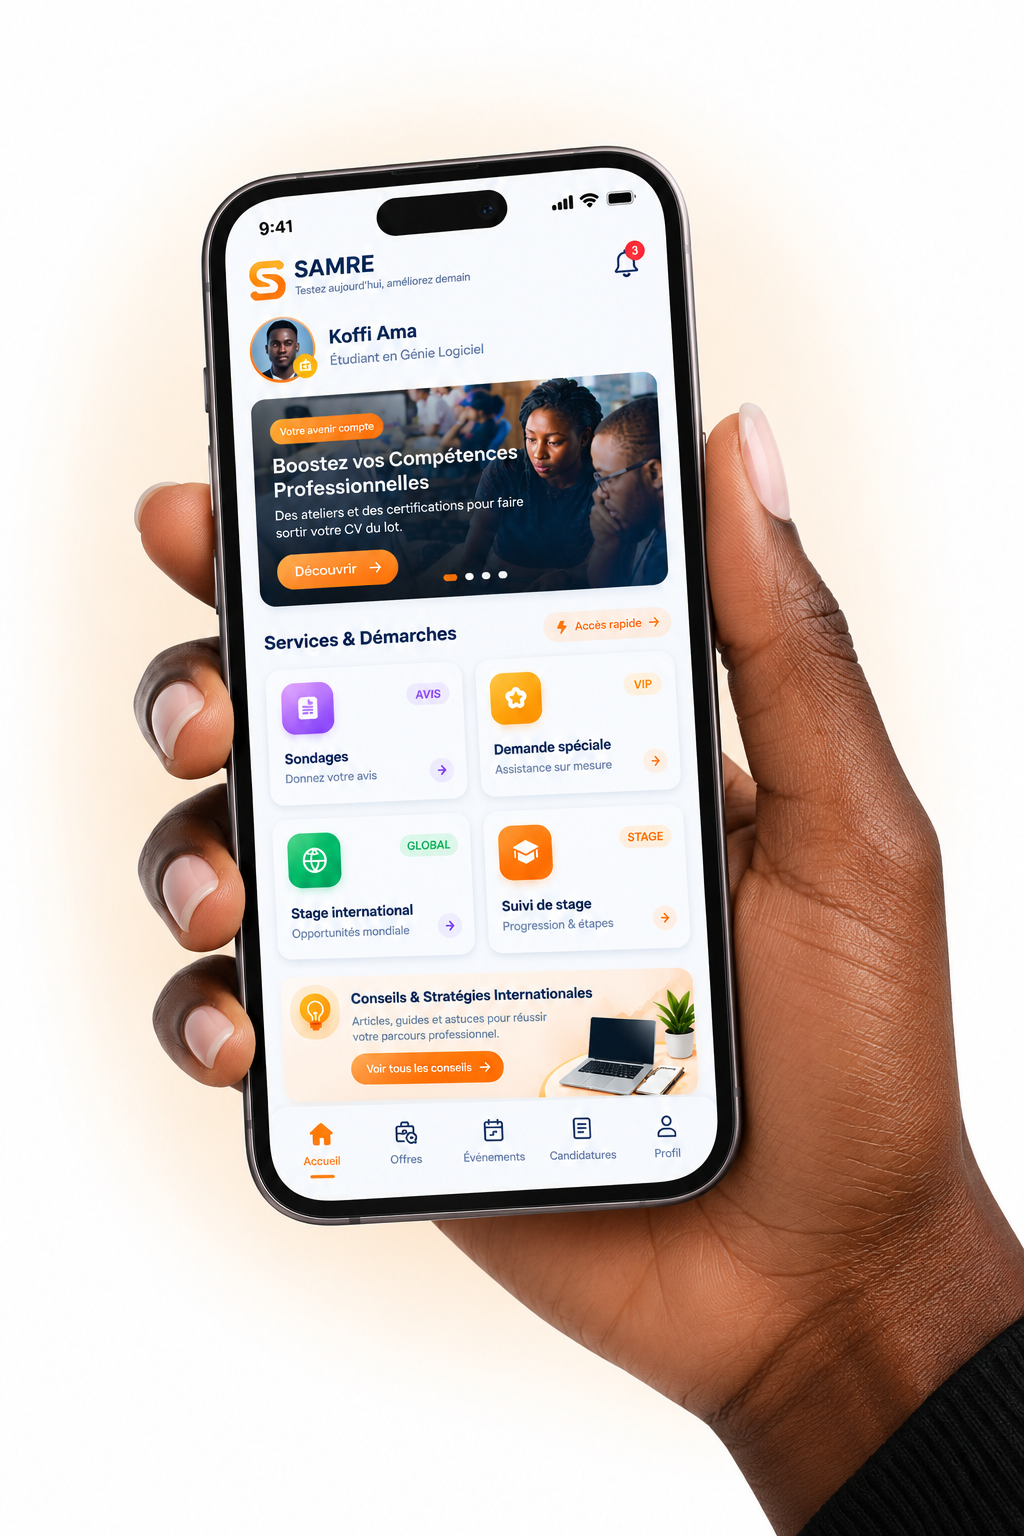
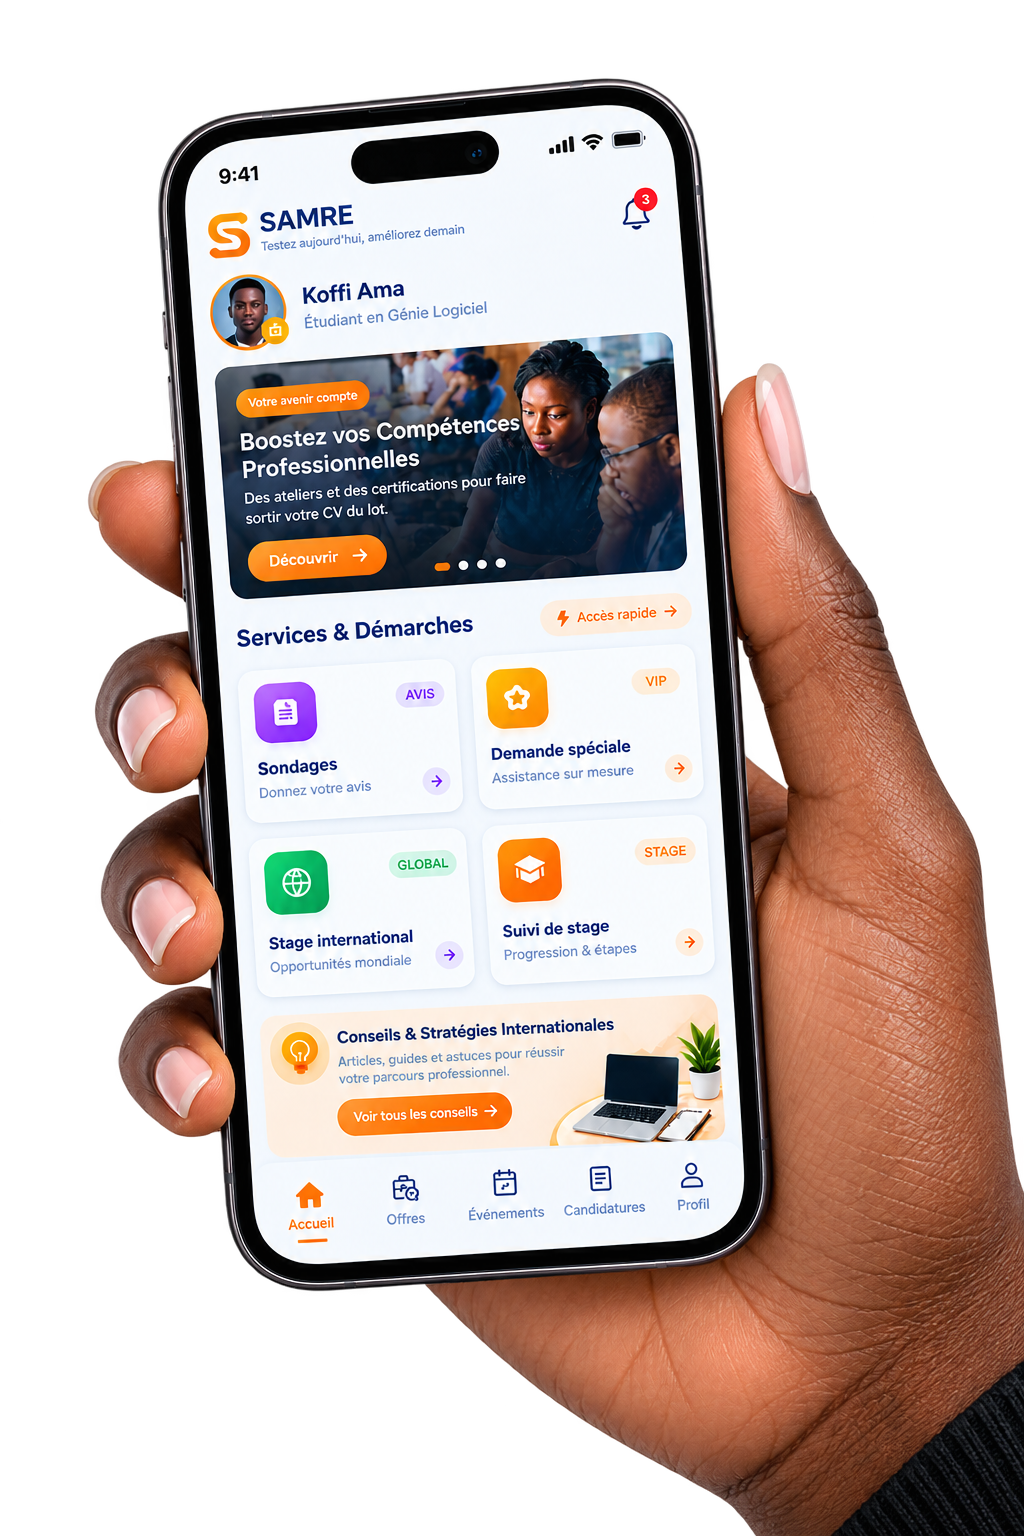
fix: resolve typescript build errors for cicd

diff --git a/remove_bg.py b/remove_bg.py
@@ -1,0 +1,66 @@
+import os
+import sys
+
+input_path = os.path.join(os.path.dirname(__file__), "public", "ChatGPT Image 28 sept. 2026, 00_26_33.png")
+output_path = os.path.join(os.path.dirname(__file__), "public", "ChatGPT Image 28 sept. 2026, 00_26_33_nobg.png")
+
+print(f"Processing: {input_path}")
+
+try:
+    from rembg import remove
+    from PIL import Image
+
+    input_img = Image.open(input_path)
+    output_img = remove(input_img)
+    output_img.save(output_path, "PNG")
+    print(f"Successfully removed background using rembg! Saved to: {output_path}")
+    sys.exit(0)
+except Exception as e:
+    print(f"rembg not available or failed ({e}), falling back to OpenCV GrabCut...")
+
+try:
+    import cv2
+    import numpy as np
+    from PIL import Image
+
+    src = cv2.imread(input_path, cv2.IMREAD_UNCHANGED)
+    h, w = src.shape[:2]
+
+    # Create mask for Grabcut
+    mask = np.zeros((h, w), np.uint8)
+    bgdModel = np.zeros((1, 65), np.float64)
+    fgdModel = np.zeros((1, 65), np.float64)
+
+    # Rectangle encompassing the hand and phone
+    rect = (int(w * 0.05), int(h * 0.05), int(w * 0.90), int(h * 0.90))
+    cv2.grabCut(src[:, :, :3], mask, rect, bgdModel, fgdModel, 7, cv2.GC_INIT_WITH_RECT)
+
+    # Foreground is where mask is 1 or 3
+    fg_mask = np.where((mask == 2) | (mask == 0), 0, 1).astype('uint8')
+
+    # Detect light background color from the 4 corners
+    corners = np.concatenate([
+        src[0:50, 0:50, :3].reshape(-1, 3),
+        src[0:50, w-50:w, :3].reshape(-1, 3),
+        src[h-100:h, 0:50, :3].reshape(-1, 3),
+        src[h-100:h, w-50:w, :3].reshape(-1, 3)
+    ], axis=0)
+    bg_mean = np.mean(corners, axis=0)
+    bg_std = np.std(corners, axis=0) + 1e-5
+
+    # Refine mask: pixels very close to background color should be transparent
+    diff = np.linalg.norm(src[:, :, :3] - bg_mean, axis=2)
+    fg_mask[diff < 35] = 0
+
+    # Smooth the mask edges
+    alpha = (fg_mask * 255).astype(np.uint8)
+    alpha = cv2.GaussianBlur(alpha, (5, 5), 0)
+
+    # Combine BGR + Alpha
+    b, g, r = cv2.split(src[:, :, :3])
+    rgba = cv2.merge([b, g, r, alpha])
+
+    cv2.imwrite(output_path, rgba)
+    print(f"Successfully processed with OpenCV! Saved to: {output_path}")
+except Exception as e:
+    print(f"Error processing with OpenCV: {e}")
